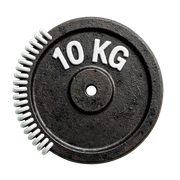
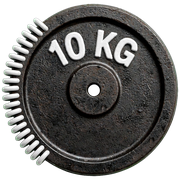
Version 1.7.54 - Icône de l'application agrandie (+8 %)
- icon-192, icon-512 et apple-touch-icon recadrées depuis la source
  1600 px : marge transparente réduite, rien de coupé.
- manifest, APP_VERSION, CHANGELOG et README à jour.

Claude-Session: https://claude.ai/code/session_01D2bERS9HLrYDfbmYJhTd1N

diff --git a/sw.js b/sw.js
@@ -2,7 +2,7 @@
 // APP_VERSION doit être incrémenté à chaque release (en même temps que
 // manifest.json) : le navigateur ne réinstalle le service worker que si
 // le contenu de ce fichier change.
-const APP_VERSION = '1.7.53';
+const APP_VERSION = '1.7.54';
 const CACHE_NAME = 'suivi-fitness-' + APP_VERSION;
 const ASSETS = [
   './',

diff --git a/README.md b/README.md
@@ -2,7 +2,7 @@
 
 **Application PWA de suivi d'entraînement en salle de sport** (dépôt `suivi-fitness`)
 
-[![Version](https://img.shields.io/badge/version-1.7.53-blue)](https://github.com/jeepalexander/suivi-fitness)
+[![Version](https://img.shields.io/badge/version-1.7.54-blue)](https://github.com/jeepalexander/suivi-fitness)
 [![License](https://img.shields.io/badge/license-MIT-green)]
 
 ---
@@ -33,7 +33,7 @@
 - **1.7.27 à 1.7.30** : fenêtre de fin de séance, enregistrement d’un programme dès le premier exercice (résumé « Presque prêt » si des séances sont vides), fenêtres de l’app dans un seul style, tuile de progression en dégradé, bouton pause sur la tuile active.
 - **1.7.31 à 1.7.33** : rationalisation de la feuille de style (tailles, rayons, espacements, variables) ; listes de Progression plus lisibles.
 - **1.7.34 à 1.7.37** : filtre « Polyarticulaires », 1RM estimé, progression en répétitions pour le poids du corps, restauration locale limitée aux fichiers `.json`, « Inviter quelqu’un » sans partage (QR code et adresse seulement).
-- **1.7.38 à 1.7.53** : « Reconnecter maintenant » silencieux ; onglet Séance titré au nom du programme avec l’icône de son type, phrase d’échauffement reformulée et placée avant le premier exercice de force, allure cardio sous la saisie, bouton de pause à côté du compteur de séries ; bilan du mois (post-it le 1er du mois, pop-up, archives dans Progression) ; partage d’un programme par lien ou QR code ; nouvelle icône (disque de 10 kg).
+- **1.7.38 à 1.7.54** : « Reconnecter maintenant » silencieux ; onglet Séance titré au nom du programme avec l’icône de son type, phrase d’échauffement reformulée et placée avant le premier exercice de force, allure cardio sous la saisie, bouton de pause à côté du compteur de séries ; bilan du mois (post-it le 1er du mois, pop-up, archives dans Progression) ; partage d’un programme par lien ou QR code ; nouvelle icône (disque de 10 kg), agrandie en 1.7.54.
 
 Le détail est dans [CHANGELOG.md](CHANGELOG.md).
 

diff --git a/CHANGELOG.md b/CHANGELOG.md
@@ -7,6 +7,15 @@ et ce projet respecte [Semantic Versioning](https://semver.org/spec/v2.0.0.html)
 
 ---
 
+## [1.7.54] - 2026-11-13
+### 🖼 Icône de l'application agrandie (co-auteur : Claude)
+- Le disque de 10 kg occupe 8 % de place en plus dans l'icône : la marge transparente autour est réduite, rien n'est coupé (ressort compris).
+- Concerne `icons/icon-192.png`, `icons/icon-512.png` (écran d'accueil Android, écran de lancement, onglet, page de présentation) et `icons/apple-touch-icon.png` (iPhone, toujours sur fond blanc). Recadrées depuis `icons/source/icon-source-1600.png`.
+- Maquette : planche 36.
+- `manifest.json` et `APP_VERSION` (`sw.js`) alignés sur 1.7.54.
+
+---
+
 ## [1.7.53] - 2026-11-12
 ### 🖼 Nouvelle icône de l'application (co-auteur : Claude)
 - Nouvelle icône « disque de 10 kg » pour l'écran d'accueil, l'onglet du navigateur et la page de présentation.
